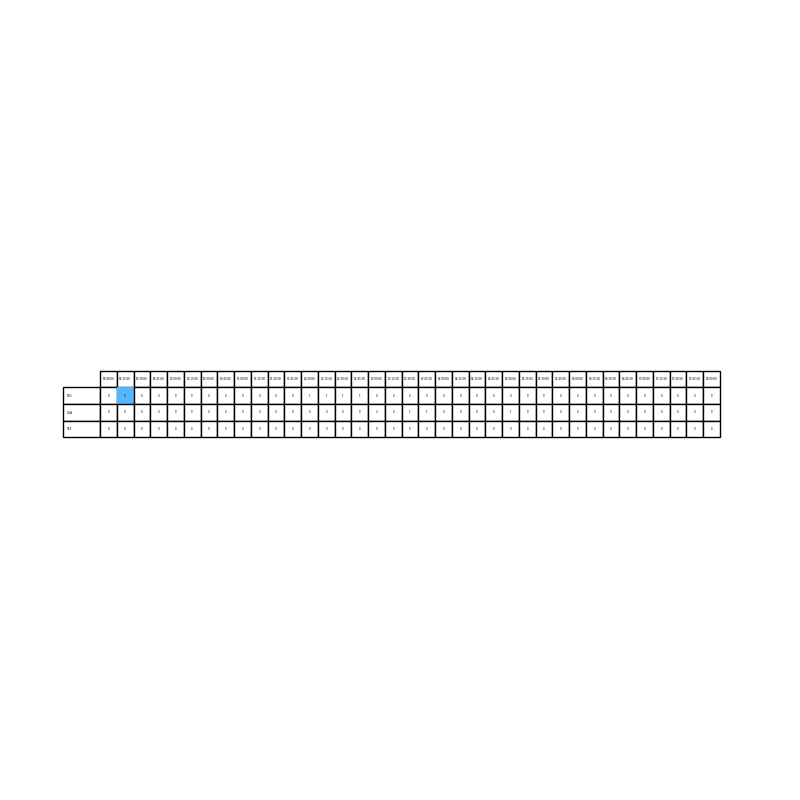
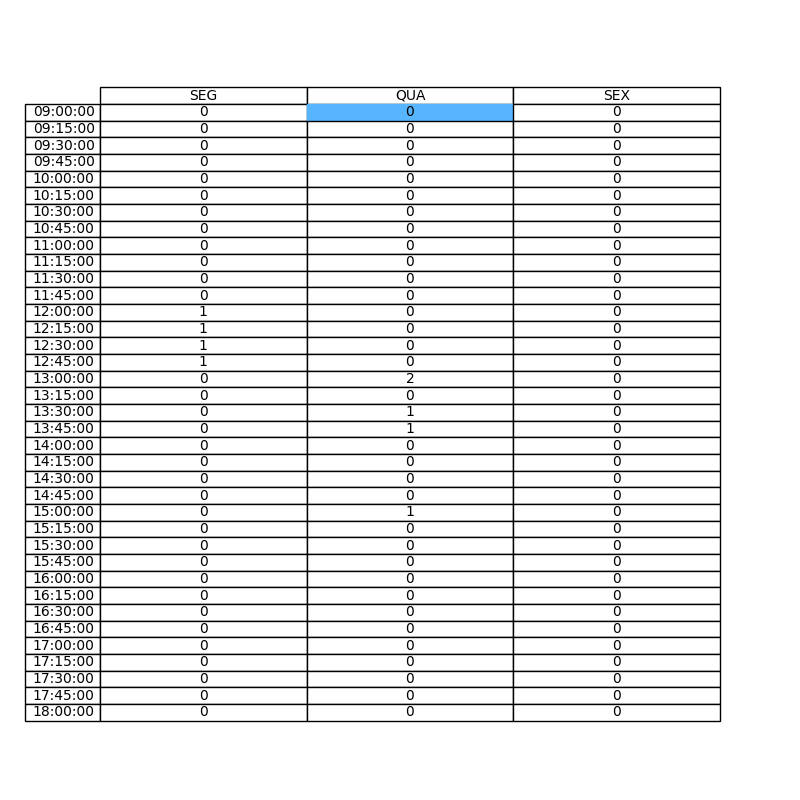
funcionando a criação de horários

Changed region(s): [[0.0312, 0.0938, 0.9062, 0.9062]]

diff --git a/botPlot/006bot.py b/botPlot/006bot.py
@@ -158,25 +158,30 @@ def plot_table_nosso(update, context):
 
     print(df2)
 
-    
-    
-    
-    # fig, ax = plt.subplots(figsize=(8, 8))
+    numpy_array = np.array(df2)
+    transpose = numpy_array.T
 
-    # # hide axes
-    # fig.patch.set_visible(False)
-    # ax.axis('off')
+    transpose_list = transpose.tolist()
+
+    print(transpose_list)
+    
+    
+    fig, ax = plt.subplots(figsize=(8, 8))
+
+    # hide axes
+    fig.patch.set_visible(False)
+    ax.axis('off')
     
 
-    # tab = ax.table(cellText=df2, rowLabels=rows, colLabels=columns, loc='center',cellLoc="center")
-    # tab.get_celld()[(1,1)].set_color("#56b5fd")
-    # # [t.auto_set_font_size(False) for t in tab]
-    # # tab.auto_set_column_width(col=)
+    tab = ax.table(cellText=transpose_list, rowLabels=rows, colLabels=columns, loc='center',cellLoc="center")
+    tab.get_celld()[(1,1)].set_color("#56b5fd")
+    # [t.auto_set_font_size(False) for t in tab]
+    # tab.auto_set_column_width(col=)
     
     
-    # # fig.tight_layout()
+    # fig.tight_layout()
 
-    # plt.savefig('graph001.png')
+    plt.savefig('graph001.png')
     _file.close()
  
 
